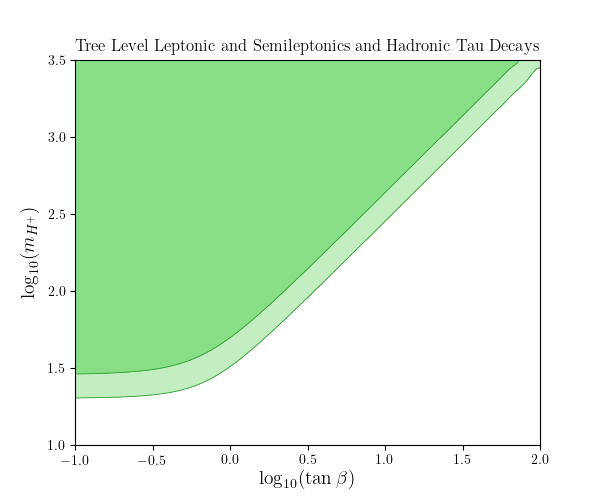
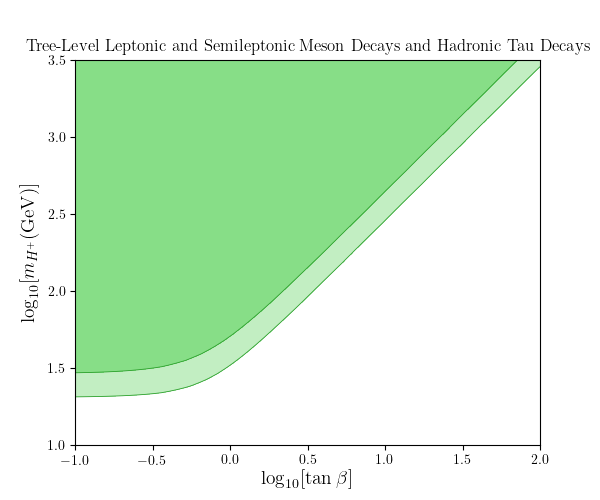
tweaks

diff --git a/repl-glob.py b/repl-glob.py
@@ -90,8 +90,9 @@ obs2 = [
 #   Leptonic and Semileptonic Tree Levels
 #------------------------------
 
-#Fleps = FastLikelihood(name="trees",observables=my_obs[:9]+my_obs[14:38],include_measurements=['Tree Level Leptonics','LFU D Ratios','Tree Level Semileptonics']) 
-Fleps = FastLikelihood(name="trees",observables=obs2,include_measurements=['Tree Level Semileptonics']) 
+Fleps = FastLikelihood(name="trees",observables=my_obs[:9]+my_obs[14:38]+obs2,include_measurements=['Tree Level Leptonics','LFU D Ratios','Tree Level Semileptonics']) 
+#Fleps = FastLikelihood(name="trees",observables=[my_obs[15]],include_measurements=['LFU D Ratios']) 
+#Fleps = FastLikelihood(name="trees",observables=obs2,include_measurements=['Tree Level Semileptonics']) 
 Fleps.make_measurement(N=500,threads=4)
 
 def leps(wcs):
@@ -100,31 +101,31 @@ def leps(wcs):
     par = flavio.default_parameters.get_central_all()
     ckm_els = flavio.physics.ckm.get_ckm(par) # get out all the CKM elements
 
-#    CSR_b, CSL_b = rh(par['m_u'],par['m_b'],10**tanb,10**mH)
-#    CSR_d, CSL_d = rh(par['m_c'],par['m_d'],10**tanb,10**mH)
-#    CSR_ds, CSL_ds = rh(par['m_c'],par['m_s'],10**tanb,10**mH)
-#    CSR_k, CSL_k = rh(par['m_u'],par['m_s'],10**tanb,10**mH)
-#    CSR_p, CSL_p = rh(par['m_u'],par['m_d'],10**tanb,10**mH)
+    CSR_b, CSL_b = rh(par['m_u'],par['m_b'],10**tanb,10**mH)
+    CSR_d, CSL_d = rh(par['m_c'],par['m_d'],10**tanb,10**mH)
+    CSR_ds, CSL_ds = rh(par['m_c'],par['m_s'],10**tanb,10**mH)
+    CSR_k, CSL_k = rh(par['m_u'],par['m_s'],10**tanb,10**mH)
+    CSR_p, CSL_p = rh(par['m_u'],par['m_d'],10**tanb,10**mH)
     CSL_bc, CSR_bc = rh(par['m_c'],par['m_b'],10**tanb,10**mH)
 
     wc = flavio.WilsonCoefficients()
     wc.set_initial({ # tell flavio what WCs you're referring to with your variables
-#            'CSR_bctaunutau': CSR_bc, 'CSL_bctaunutau': CSL_bc,
+            'CSR_bctaunutau': CSR_bc, 'CSL_bctaunutau': CSL_bc,
             'CSR_bcmunumu': CSR_bc, 'CSL_bcmunumu': CSL_bc,
-#            'CSR_bcenue': CSR_bc, 'CSL_bcenue': CSL_bc, 
-#            'CSR_butaunutau': CSR_b, 'CSL_butaunutau': CSL_b,
-#            'CSR_bumunumu': CSR_b, 'CSL_bumunumu': CSL_b,
-#            'CSR_buenue': CSR_b, 'CSL_buenue': CSL_b, 
-#            'CSR_dcmunumu': CSR_d, 'CSL_dcmunumu': CSL_d,
-#            'CSR_dcenue': CSR_d, 'CSL_dcenue': CSL_d, 
-#            'CSR_sctaunutau': CSR_ds, 'CSL_sctaunutau': CSL_ds,
-#            'CSR_scmunumu': CSR_ds, 'CSL_scmunumu': CSL_ds,
-#            'CSR_scenue': CSR_ds, 'CSL_scenue': CSL_ds, 
-#            'CSR_sutaunutau': CSR_k, 'CSL_sutaunutau': CSL_k, 
-#            'CSR_sumunumu': CSR_k, 'CSL_sumunumu': CSL_k, 
-#            'CSR_suenue': CSR_k, 'CSL_suenue': CSL_k, 
-#            'CSR_dutaunutau': CSR_p, 'CSL_dutaunutau': CSL_p, 
-#            'CSR_dumunumu': CSR_p, 'CSL_dumunumu': CSL_p, 
+            'CSR_bcenue': CSR_bc, 'CSL_bcenue': CSL_bc, 
+            'CSR_butaunutau': CSR_b, 'CSL_butaunutau': CSL_b,
+            'CSR_bumunumu': CSR_b, 'CSL_bumunumu': CSL_b,
+            'CSR_buenue': CSR_b, 'CSL_buenue': CSL_b, 
+            'CSR_dcmunumu': CSR_d, 'CSL_dcmunumu': CSL_d,
+            'CSR_dcenue': CSR_d, 'CSL_dcenue': CSL_d, 
+            'CSR_sctaunutau': CSR_ds, 'CSL_sctaunutau': CSL_ds,
+            'CSR_scmunumu': CSR_ds, 'CSL_scmunumu': CSL_ds,
+            'CSR_scenue': CSR_ds, 'CSL_scenue': CSL_ds, 
+            'CSR_sutaunutau': CSR_k, 'CSL_sutaunutau': CSL_k, 
+            'CSR_sumunumu': CSR_k, 'CSL_sumunumu': CSL_k, 
+            'CSR_suenue': CSR_k, 'CSL_suenue': CSL_k, 
+            'CSR_dutaunutau': CSR_p, 'CSL_dutaunutau': CSL_p, 
+            'CSR_dumunumu': CSR_p, 'CSL_dumunumu': CSL_p, 
         }, scale=4.2, eft='WET', basis='flavio')
     return Fleps.log_likelihood(par,wc)
 
@@ -266,9 +267,9 @@ def func(wcs):
 #   Get Contour Data
 #------------------------------
 
-cleps = fpl.likelihood_contour_data(leps,-1,2,1,3.5, n_sigma=sigmas, threads=4, steps=60) 
+#cleps = fpl.likelihood_contour_data(leps,-1,2,1,3.5, n_sigma=sigmas, threads=4, steps=60) 
 #cmix = fpl.likelihood_contour_data(mix,-1,2,1,3.5, n_sigma=sigmas, threads=4, steps=60) 
-#crad = fpl.likelihood_contour_data(rad,-1,2,1,3.5, n_sigma=sigmas, threads=4, steps=60) 
+crad = fpl.likelihood_contour_data(rad,-1,2,2.5,3.5, n_sigma=sigmas, threads=4, steps=60) 
 #cmu = fpl.likelihood_contour_data(mu,-1,2,1,3.5, n_sigma=sigmas, threads=4, steps=60) 
 #cdat = fpl.likelihood_contour_data(func,-1,2,1,3.5, n_sigma=sigmas, threads=4, steps=60) 
 
@@ -276,25 +277,25 @@ cleps = fpl.likelihood_contour_data(leps,-1,2,1,3.5, n_sigma=sigmas, threads=4, 
 #   Print Out Values
 #------------------------------
 
-#bf,minh,mint,maxt = mHmin(cdat)
-#print("Best fit value is found for (tanb,mH) =", bf)
-#print("Print outs are lists for values at", sigmas, "sigmas")
-#print("Minimum value of mH+ is:", minh)
-#print("Minimum value of tanb is:", mint)
-#print("Maximum value of tanb is:", maxt)
+bf,minh,mint,maxt = mHmin(crad)
+print("Best fit value is found for (tanb,mH) =", bf)
+print("Print outs are lists for values at", sigmas, "sigmas")
+print("Minimum value of mH+ is:", minh)
+print("Minimum value of tanb is:", mint)
+print("Maximum value of tanb is:", maxt)
 
 #------------------------------
 #   Plotting
 #------------------------------
 
-plt.figure(figsize=(6,5))
-fpl.contour(**cleps,col=2) 
-#plt.title('Tree Level Leptonic and Semileptonics and Hadronic Tau Decays')
-plt.title(r'$B_s\to D_s^{(*)}\mu\nu_\mu$ Fit')
-plt.xlabel(r'$\log_{10}[\tan\beta]$') 
-plt.ylabel(r'$\log_{10}[m_{H^+} (\text{GeV})]$') 
-plt.savefig('leps_plot.png')
-quit()
+#plt.figure(figsize=(6,5))
+#fpl.contour(**cleps,col=2) 
+#plt.title('Tree-Level Leptonic and Semileptonic Meson Decays and Hadronic Tau Decays')
+##plt.title(r'$B_s\to D_s^{(*)}\mu\nu_\mu$ Fit')
+##plt.title(r'$\mathcal{R}(D^*)$ Individual Fit')
+#plt.xlabel(r'$\log_{10}[\tan\beta]$') 
+#plt.ylabel(r'$\log_{10}[m_{H^+} (\text{GeV})]$') 
+#plt.savefig('qqlnu_plot.png')
 
 #plt.figure(figsize=(6,5))
 #fpl.contour(**cmix,col=0) 
@@ -303,12 +304,13 @@ quit()
 #plt.ylabel(r'$\log_{10}[m_{H^+} (\text{GeV})]$') 
 #plt.savefig('bmix_plot.png')
 
-#plt.figure(figsize=(6,5))
-#fpl.contour(**crad,col=3) 
-#plt.title(r'$\bar{B}\to X_s\gamma$ Radiative Decay')
-#plt.xlabel(r'$\log_{10}[\tan\beta]$') 
-#plt.ylabel(r'$\log_{10}[m_{H^+} (\text{GeV})]$') 
-#plt.savefig('bsgamma_plot.png')
+plt.figure(figsize=(12,4))
+fpl.contour(**crad,col=3) 
+plt.title(r'$\bar{B}\to X_s\gamma$ Radiative Decay')
+plt.xlabel(r'$\log_{10}[\tan\beta]$') 
+plt.ylabel(r'$\log_{10}[m_{H^+} (\text{GeV})]$') 
+plt.yticks(np.arange(2.5,3.6,0.25))
+plt.savefig('bsgamma_plot2.png')
 
 # (2.4,4.2,-1,1)
 z_min1 = -5.182818890948422
@@ -319,20 +321,20 @@ z_min3 = 1.6111964187252177
 # (-1,2,0,3.5)
 z_min4 = 3.5229317450326256
 
-plt.figure(figsize=(6,5))
-fpl.contour(**cmu,col=9)#,z_min=z_min1) 
+#plt.figure(figsize=(6,5))
+#fpl.contour(**cmu,col=9)#,z_min=z_min1) 
 #plt.title(r'FCNC Leptonic B Decays ($B_{s,d}\to\mu^+\mu^-$), $m_{H^0}\sim m_{H^+}$')
 #plt.title(r'FCNC Leptonic B Decays ($B_{s,d}\to\mu^+\mu^-$), $m_{H^0}=1500\,$GeV')
-plt.title(r'$R_K$ for $q^2\in[1,6]$ \& $R_{K^{*0}}$ for $q^2\in[0.045,6]$')
+#plt.title(r'$R_K$ for $q^2\in[1,6]$ \& $R_{K^{*0}}$ for $q^2\in[0.045,6]$')
 #plt.title(r'$R_K$ for $q^2\in[1,6]$')
 #plt.title(r'$R_{K^{*0}}$ for $q^2\in[0.045,6]$')
 #plt.title(r'$b\to sl^+l^-$ transitions ($B_{s,d}\to\mu^+\mu^-$ \& $R_K(q^2\in[1,6]),R_{K^{*0}}(q^2\in[0.045,6])$), $m_{H^0}\sim m_{H^+}$')
 #plt.title(r'$b\to sl^+l^-$ transitions ($B_{s,d}\to\mu^+\mu^-$ \& $R_K(q^2\in[1,6]),R_{K^{*0}}(q^2\in[0.045,6])$), $m_{H^0}=1500\,$GeV')
-plt.xlabel(r'$\log_{10}[\tan\beta]$') 
-plt.ylabel(r'$\log_{10}[m_{H^+} (\text{GeV})]$') 
+#plt.xlabel(r'$\log_{10}[\tan\beta]$') 
+#plt.ylabel(r'$\log_{10}[m_{H^+} (\text{GeV})]$') 
 #plt.savefig('bsll_plot.png')
 #plt.savefig('bmumu_fix.png')
-plt.savefig('rks_plot.png')
+#plt.savefig('rks_plot.png')
 
 #plt.figure(figsize=(6,5))
 #fpl.contour(**cdat,col=4) 
